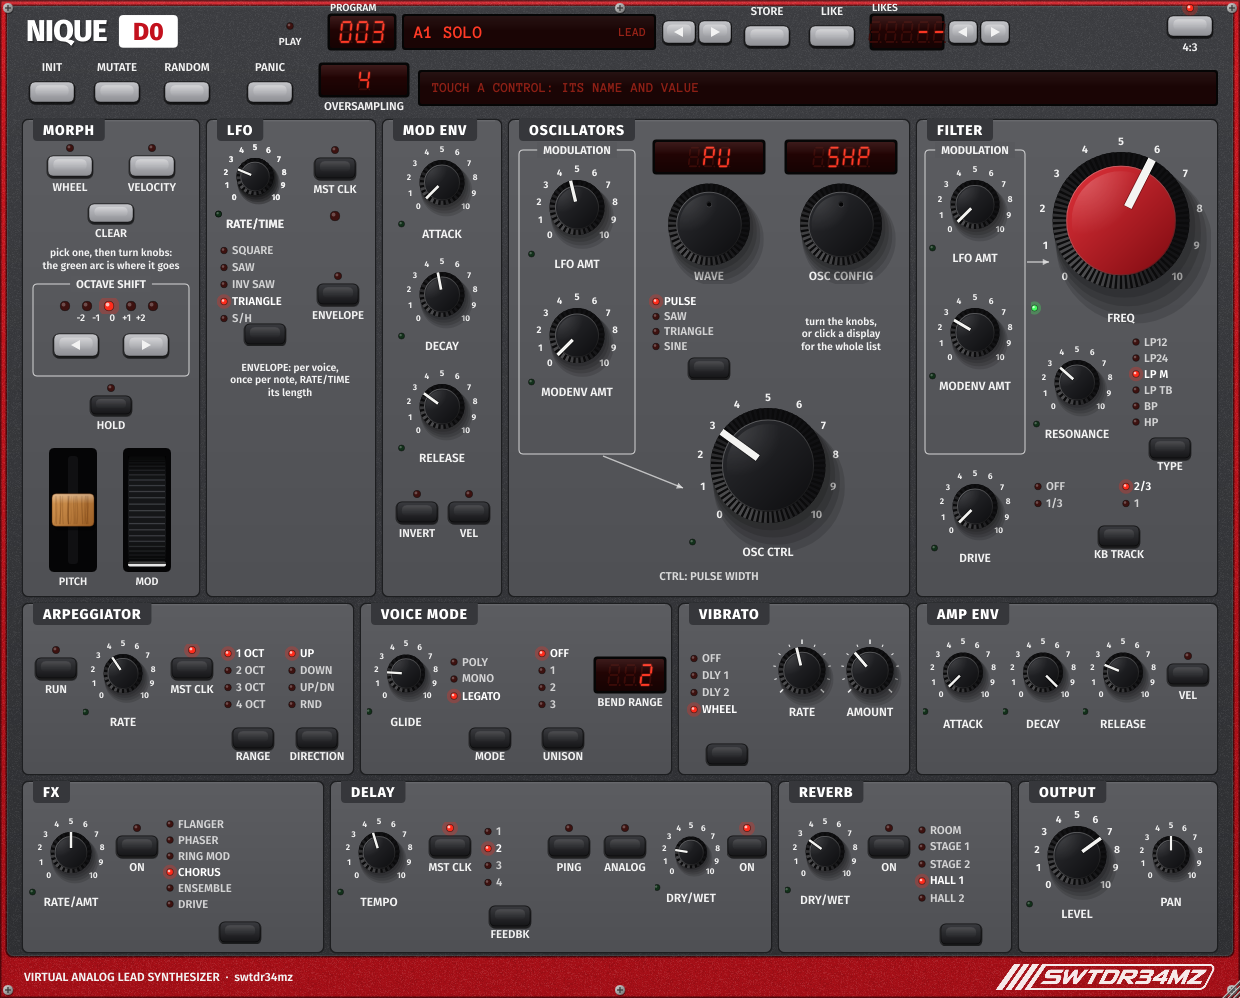
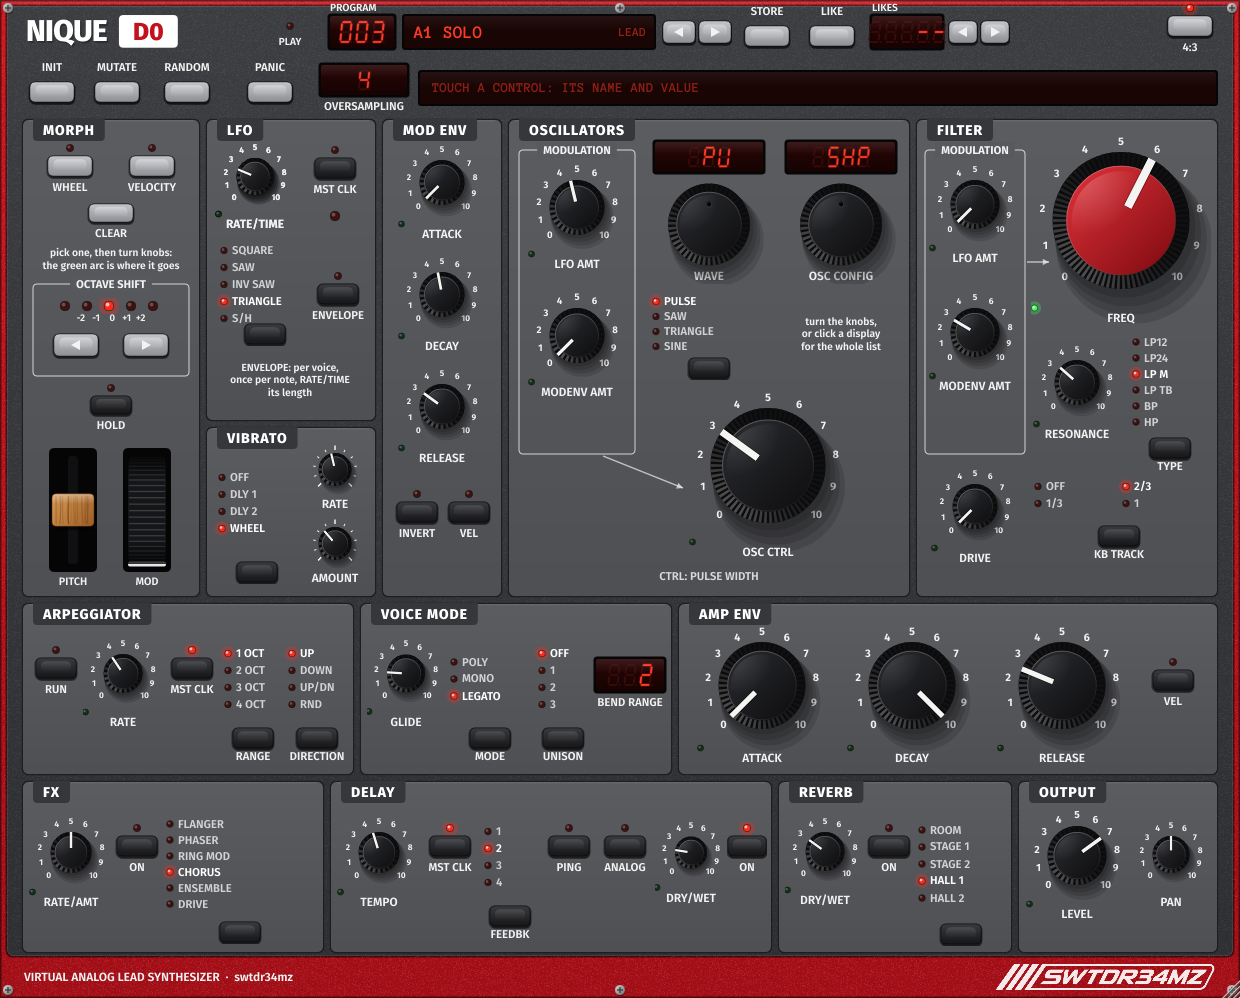
4:3: VIBRATO under the LFO, AMP ENV across the rest of the second row
Claude-Session: https://claude.ai/code/session_019gwqiLx9vhUv2R9E4RVmAS

Changed region(s): [[0.5516, 0.5902, 0.9806, 0.7766], [0.1532, 0.4038, 0.3065, 0.5902]]

diff --git a/src/PluginEditor.cpp b/src/PluginEditor.cpp
@@ -327,7 +327,7 @@ NiqueEditor::NiqueEditor(NiqueProcessor &p) : AudioProcessorEditor(&p), proc(p)
 
     /* --------------------------------------------------------------------------------- LFO --- */
     cdx = -197;
-    section({404, 72, 168, 300}, "LFO", false, {207, 120, 168, 476});
+    section({404, 72, 168, 300}, "LFO");
     auto *lfoRate = knob("lfo_rate", "RATE/TIME", {410, 90, 84, 96});
     auto *lfoDiv = knob("lfo_div", "RATE/TIME", {410, 90, 84, 96});
     sync(lfoRate, lfoDiv, LFO_SYNC);
@@ -338,10 +338,10 @@ NiqueEditor::NiqueEditor(NiqueProcessor &p) : AudioProcessorEditor(&p), proc(p)
     text({412, 300, 150, 64}, "ENVELOPE: per voice,\nonce per note, RATE/TIME\nits length", 9.5f);
 
     /* ----------------------------------------------------------------------------- VIBRATO --- */
-    section({404, 380, 168, 168}, "VIBRATO", false, {679, r2, 230, 170});
-    sel("vibrato", {"OFF", "DLY 1", "DLY 2", "WHEEL"}, {412, 398, 84, 138}, {}, {687, r2 + 22, 80, 140});
-    knob("vib_rate", "RATE", {500, 396, 64, 70}, {769, r2 + 34, 66, 84});
-    knob("vib_amt", "AMOUNT", {500, 470, 64, 70}, {837, r2 + 34, 66, 84});
+    section({404, 380, 168, 168}, "VIBRATO");   /* (4:3 too: under the LFO) */
+    sel("vibrato", {"OFF", "DLY 1", "DLY 2", "WHEEL"}, {412, 398, 84, 138});
+    knob("vib_rate", "RATE", {500, 396, 64, 70});
+    knob("vib_amt", "AMOUNT", {500, 470, 64, 70});
 
     /* ----------------------------------------------------------------------------- MOD ENV --- */
     section({580, 72, 118, 476}, "MOD ENV");
@@ -410,11 +410,11 @@ NiqueEditor::NiqueEditor(NiqueProcessor &p) : AudioProcessorEditor(&p), proc(p)
     }
 
     /* ----------------------------------------------------------------------------- AMP ENV --- */
-    section({1422, 72, 118, 476}, "AMP ENV", false, {917, r2, 300, 170});
-    knob("aenv_a", "ATTACK", {1430, 92, 102, 104}, {923, r2 + 26, 80, 104});
-    knob("aenv_d", "DECAY", {1430, 204, 102, 104}, {1003, r2 + 26, 80, 104});
-    knob("aenv_r", "RELEASE", {1430, 316, 102, 104}, {1083, r2 + 26, 80, 104});
-    key("aenv_vel", "VEL", {1456, 440, 50, 54}, {1163, r2 + 46, 50, 54});
+    section({1422, 72, 118, 476}, "AMP ENV", false, {679, r2, 538, 170});   /* (4:3: the second row's rest) */
+    knob("aenv_a", "ATTACK", {1430, 92, 102, 104}, {697, r2 + 18, 130, 146});
+    knob("aenv_d", "DECAY", {1430, 204, 102, 104}, {847, r2 + 18, 130, 146});
+    knob("aenv_r", "RELEASE", {1430, 316, 102, 104}, {997, r2 + 18, 130, 146});
+    key("aenv_vel", "VEL", {1456, 440, 50, 54}, {1145, r2 + 52, 56, 54});
 
     /* ---------------------------------------------------------------------------------- FX --- */
     section({1548, 72, 136, 236}, "FX", false, {23, r3, 300, 170});

diff --git a/README.md b/README.md
@@ -6,8 +6,8 @@ file), **VST3** for Windows, and a **standalone app** for both. After the idea o
 
 ![NIQUE D0](docs/panel.png)
 
-The **4:3** key (top right) lays the panel out for smaller screens: the arpeggiator, voice mode, vibrato, amp
-envelope and the effects lie down in two rows below the oscillators and the filter; the key again goes back.
+The **4:3** key (top right) lays the panel out for smaller screens: the vibrato goes under the LFO, the arpeggiator,
+voice mode, amp envelope and the effects lie down in two rows below the oscillators and the filter; the key again goes back.
 
 ![NIQUE D0, 4:3](docs/panel-4x3.png)
 
